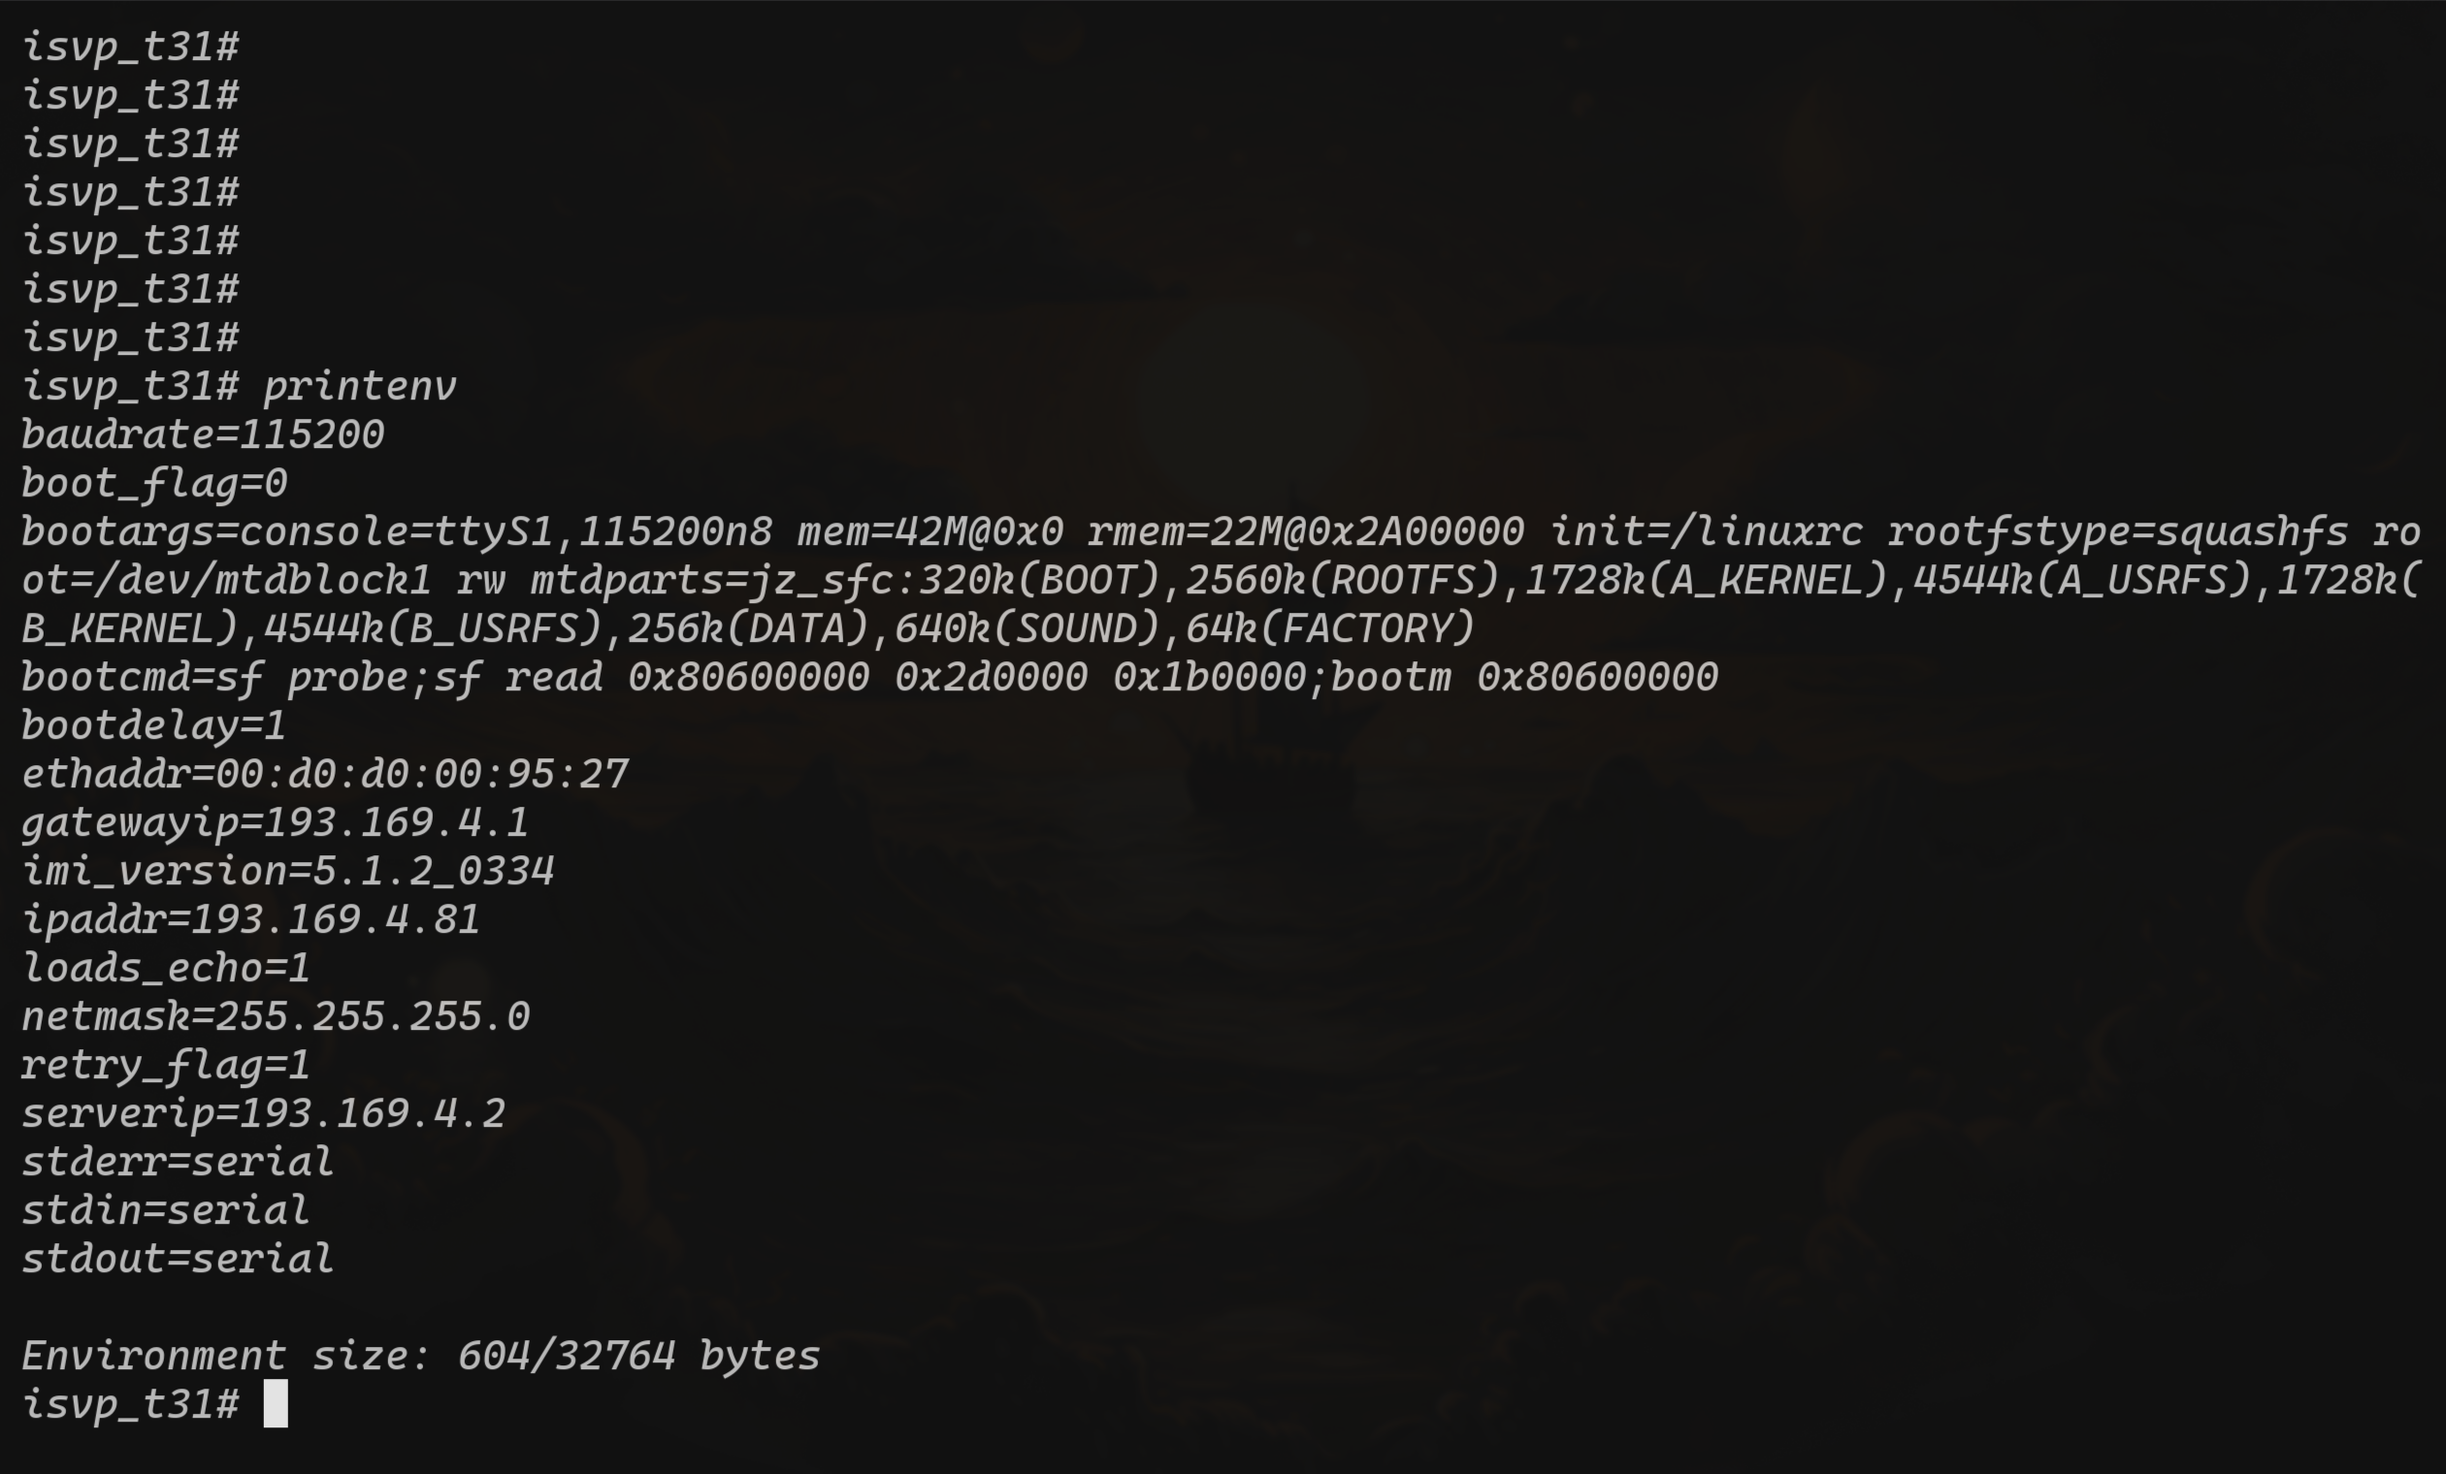
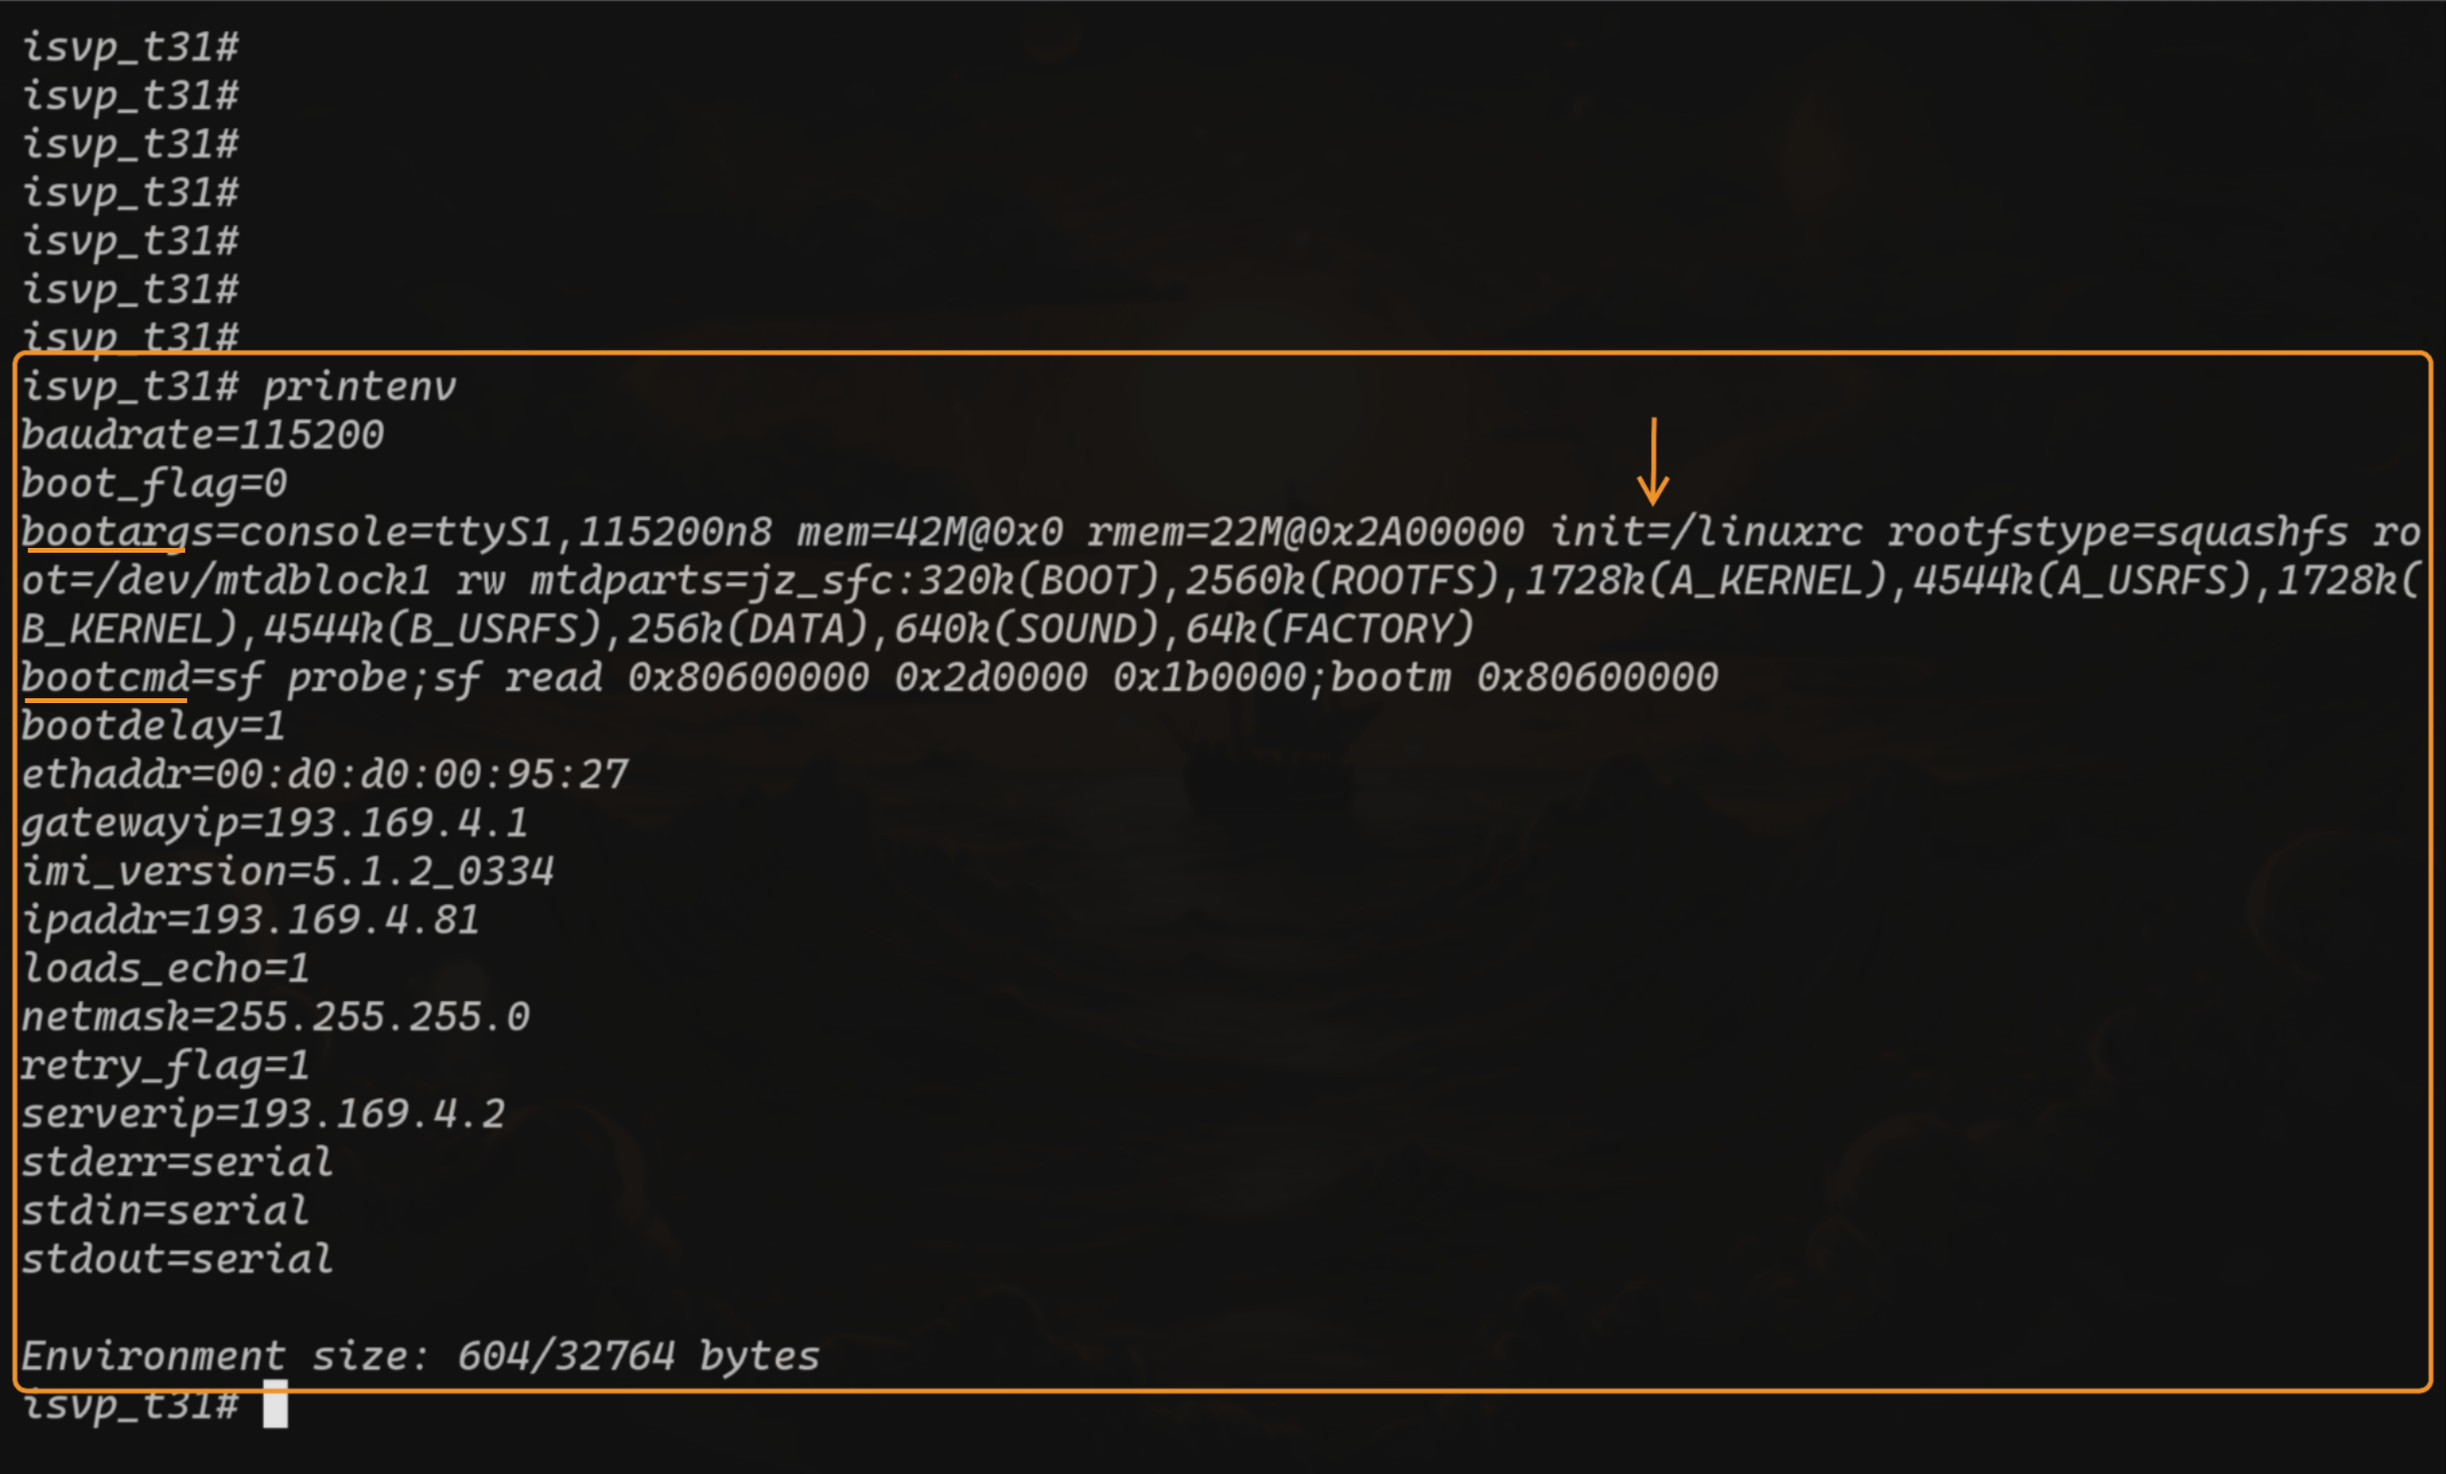
vault backup: 2025-12-16 17:23:31

diff --git a/README.md b/README.md
@@ -34,10 +34,10 @@ I Used some PCBite probes & USB 2 TTL Adapter for this setup
 ![pcb_uart](images/pcb_uart.png)
 
 
-## U-Boot & Root & Firmware 
-Now we can use `minicom` to get a the UART shell we are after 
+## U-Boot & Root 
+Now we can use `picocom` to get a the UART shell we are after 
 ```bash
-sudo minicom -b 115200 /dev/ttyUSB0
+sudo picocom -b 115200 /dev/ttyUSB0
 ```
 If nothing is done, i only got the  boot logs and no shell at the end of the booting process  
 so i had to interrupt U-Boot by pressing enter immediately.  
@@ -45,4 +45,28 @@ When getting a U-Boot shell i firstly printed the environment args
 ![U-Boot_1](images/UBOOT_PRINTENV_1.png)
 The thing important to us are
 * bootargs →show the init command is to run the linuxrc binary & firmware layout  (partitions and their purpose /size/slots)
-* bootcmd → The command to load the memory from flash to ROM and boot the device 
+* bootcmd → The command to load the memory from flash to ROM and boot the device  
+
+To get a quick root access i can use the trick of changing the init command with `setenv` 
+so i get a shell instead of running the linuxrc binary, then i can load the memory 
+manually and boot the device (essentially copying the bootcmd command)
+![U-Boot_1](images/UBOOT_SETENV_2.png)
+Now when the boot will finish i will be dropped into an early shell with essentially nothing running  
+on the system, so i'll run the original `linuxrc` binary in the background and check for 
+any open ports on this system 
+![root_netstat](images/root_netstat.png)
+No luck! The camera only talks to its cloud on " _47.237.75.249_  ", no exposed web interface 
+to tinker with.
+Since reversing the cloud communication binary is out of scope for my research,  
+this is where i decided to end my research :) 
+
+## Firmware extraction 
+A little extra for anyone who is interested in playing with the firmware, here's 
+how to get it. 
+Same setup as before with the UART but this time only probing & loading the  
+memory from the flash into RAM but without booting into it.
+Then you can print the data from the RAM memory and record your terminal  
+output (with `minicom` this time) to save to a file, clean it a bit with python and get  
+the firmware, matching binwalk & bootargs help to name each section.  
+![Firmware](images/firmware.png)
+
